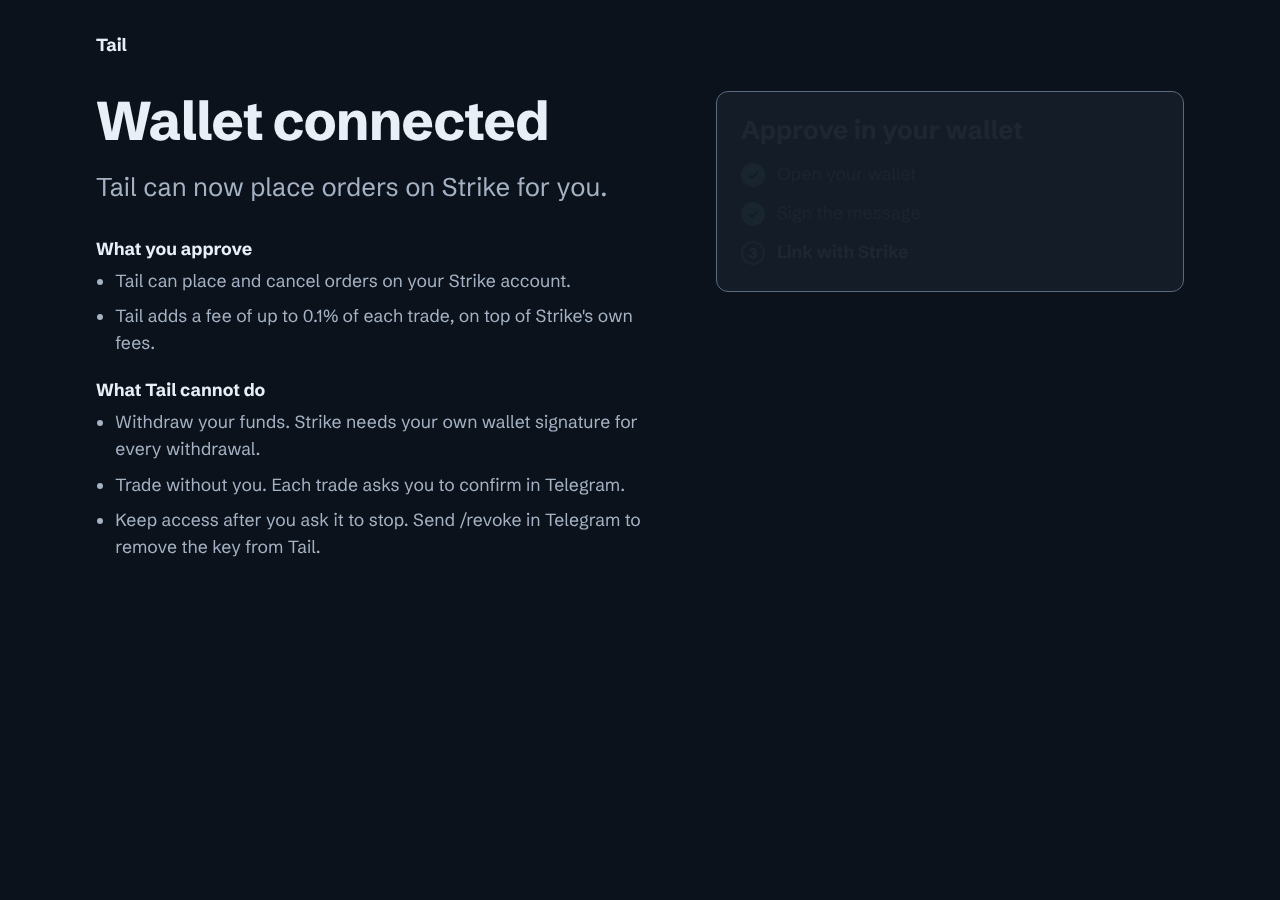
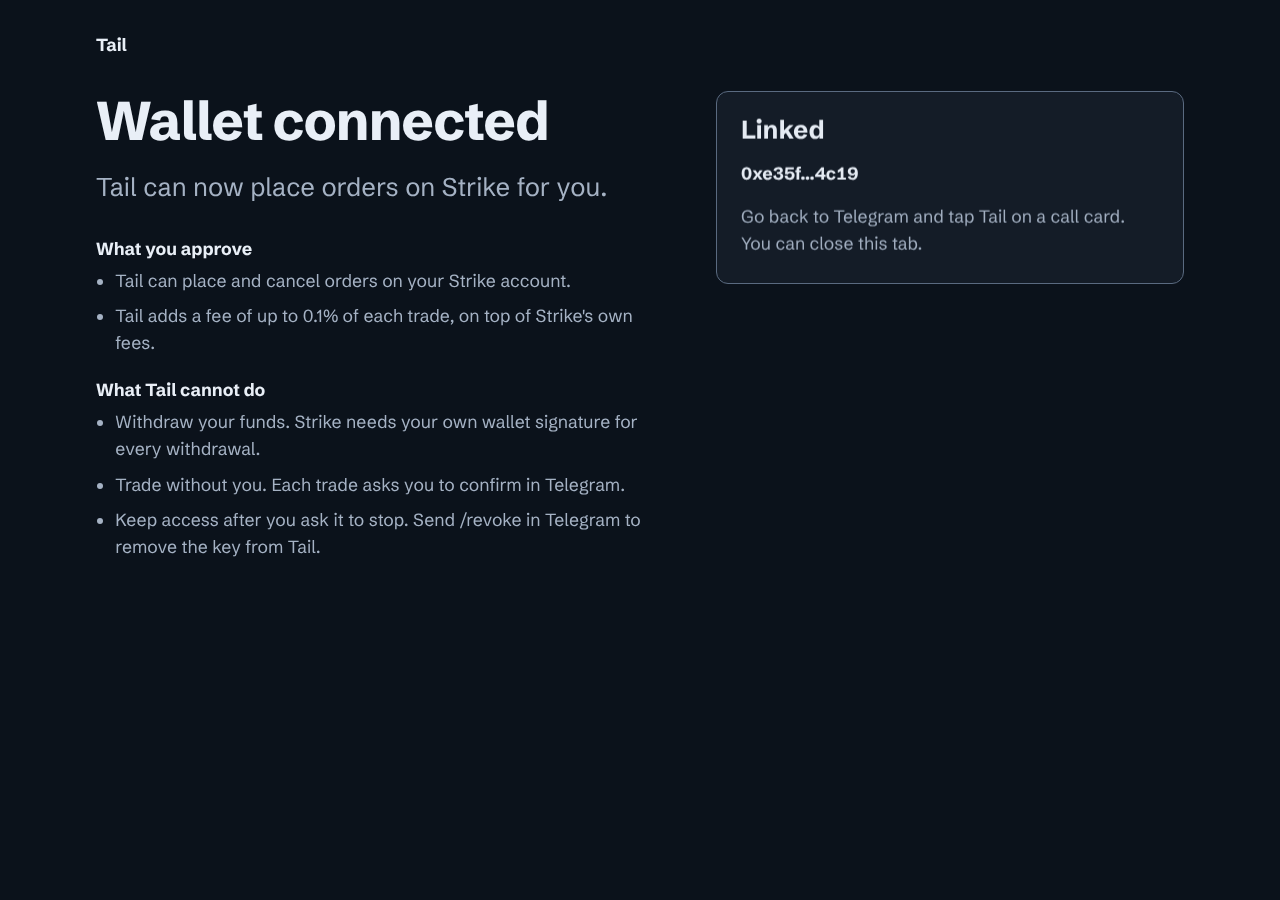
Connect: show the wallet's account chooser, explain the own-builder-code refusal
The page took the first account the site was connected to, so switching account in MetaMask
changed nothing. It now asks for the account chooser first (fallback to the plain connect;
a refusal stops). Strike's 'own builder code' answer becomes a plain instruction.

Claude-Session: https://claude.ai/code/session_01BzRCuCvvaxwKdpQUCQScRc

Changed region(s): [[0.5625, 0.1867, 0.875, 0.28], [0.5625, 0.1244, 0.6562, 0.1556]]

diff --git a/web/src/wallets/index.ts b/web/src/wallets/index.ts
@@ -43,6 +43,14 @@ export function detectWallets(w: WindowLike): WalletOption[] {
 
 async function connectEvm(w: WindowLike): Promise<Connected> {
   const eth = w.ethereum;
+  // A site stays connected to the account it was first given, and switching account in the wallet does not change that.
+  // Ask the wallet to show its account chooser first so the user picks the account on purpose. A wallet that does not
+  // support the request falls back to the plain connect; a refusal (4001) is a refusal and stops here.
+  try {
+    await eth.request({ method: "wallet_requestPermissions", params: [{ eth_accounts: {} }] });
+  } catch (e) {
+    if ((e as { code?: number })?.code === 4001) throw e;
+  }
   const accounts = (await eth.request({ method: "eth_requestAccounts" })) as string[];
   const address = accounts?.[0];
   if (!address) throw new WalletError("The wallet did not share an account.");

diff --git a/test/web/wallets.test.ts b/test/web/wallets.test.ts
@@ -81,7 +81,7 @@ describe("EVM (MetaMask, Rabby): EIP-191 personal_sign", () => {
     it("sends the account-permissions request first, with eth_accounts", async () => {
       const eth = evmStub();
       const orig = eth.request;
-      eth.request = async (r: { method: string; params?: unknown[] }) => (r.method === "wallet_requestPermissions" ? [] : orig(r));
+      eth.request = async (r: { method: string; params?: unknown[] }) => (r.method === "wallet_requestPermissions" ? (eth.calls.push(r), []) : orig(r));
       await connectWallet({ ethereum: eth }, "evm");
       expect(eth.calls.find((x) => x.method === "wallet_requestPermissions")?.params).toEqual([{ eth_accounts: {} }]);
     });

diff --git a/src/connect/service.ts b/src/connect/service.ts
@@ -32,7 +32,10 @@ export interface ConnectDeps {
 const INVALID = "This link is not valid. Send /connect to the bot for a new one.";
 const short = (a: string) => (a.length > 12 ? `${a.slice(0, 6)}…${a.slice(-4)}` : a);
 
+const OWN_CODE = "This wallet account owns the builder code Tail uses, and Strike will not connect an account to its own code. Choose a different account in your wallet and try again.";
+
 function strikeText(e: unknown): string {
+  if (e instanceof StrikeError && /own builder code/i.test(e.strikeError)) return OWN_CODE;
   return e instanceof StrikeError ? `Strike said: ${escapeHtml(e.strikeError)}.` : "Could not reach Strike. Try again.";
 }
 

diff --git a/scripts/e2e-connect.ts b/scripts/e2e-connect.ts
@@ -55,6 +55,7 @@ async function newPage(opts: { signer?: Signer; wallet?: "evm" | "none" | "refus
       window.ethereum = {
         isMetaMask: true,
         request: async ({ method, params }) => {
+          if (method === "wallet_requestPermissions") return [{ parentCapability: "eth_accounts" }];
           if (method === "eth_requestAccounts") return [address];
           if (method === "personal_sign") {
             if (refuse) { const e = new Error("User rejected the request."); e.code = 4001; throw e; }

diff --git a/DECISIONS.md b/DECISIONS.md
@@ -2,6 +2,15 @@
 
 **Mustapha Fadhlullah — independent security researcher**
 
+## 2026-10-23 Connect: pick the account on purpose; explain the own-code refusal
+
+- After funding a second MetaMask account he still got "cannot connect an account to its own builder code". Cause: the connect
+  page used the first account from `eth_requestAccounts`, and a site stays connected to the account it was first given, so
+  switching the active account in MetaMask changed nothing. Fix: the page first sends `wallet_requestPermissions` (the wallet's
+  account chooser); a wallet without it falls back to the plain connect; a refusal (4001) stops. Tested with stubs, and the 25
+  live-Strike connect checks still pass. UNVERIFIED in a real MetaMask: the chooser itself.
+- Strike's own sentence is now a plain message: the account owns the builder code Tail uses; choose a different account.
+
 ## 2026-10-23 Correction (marked): the demo guide told him to follow with the wallet that owns `sigma`
 
 - `docs/demo/telegram.md` said to connect the MetaMask account that holds the Strike testnet deposit (`0x0C3a`). That account
